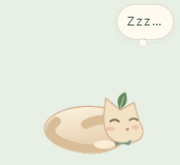
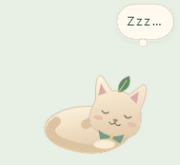
Correct paw contact direction and reuse Pofinyo face for sleep

Changed region(s): [[0.3611, 0.4545, 0.8333, 0.9091], [0.3333, 0.6667, 0.3611, 0.697]]

diff --git a/ui/desktop-cat.js b/ui/desktop-cat.js
@@ -1,7 +1,7 @@
 'use strict';
 const cat=document.getElementById('cat'),thought=document.getElementById('thought');
-const head=`<g class="cat-head"><path class="head-fur" d="M137 83Q125 34 140 39L162 61Q179 55 194 61L213 39Q228 35 219 84Q232 122 211 134Q178 151 144 133Q124 122 137 83Z" fill="url(#fur)" stroke="#d4c3ae" stroke-width="1.5"/><path d="M140 52l13 14-13 8m69-22-13 14 14 8" fill="#dbaaaa"/><g class="open-eye"><ellipse cx="158" cy="99" rx="5" ry="7" fill="#3c4544"/><ellipse cx="199" cy="99" rx="5" ry="7" fill="#3c4544"/><circle cx="160" cy="96" r="1.7" fill="white"/><circle cx="201" cy="96" r="1.7" fill="white"/></g><ellipse cx="148" cy="112" rx="8" ry="4" fill="#e8b2a5" opacity=".65"/><ellipse cx="209" cy="112" rx="8" ry="4" fill="#e8b2a5" opacity=".65"/><path d="M174 110q5-4 10 0l-5 5z" fill="#b1867b"/><path d="M179 115q-5 7-10 1m10-1q5 7 10 1" fill="none" stroke="#77675e" stroke-width="1.8" stroke-linecap="round"/><path d="M153 133q23 13 47-1l-4 17-17-6-20 6z" fill="#789b89"/><circle cx="178" cy="140" r="3.5" fill="#e8ca87"/><g class="leaf"><path d="M174 61q-8-21 13-33q10 23-13 33" fill="#648962"/><path d="M175 59l9-22" stroke="#b7cf93" stroke-width="2" stroke-linecap="round"/></g></g>`;
-cat.innerHTML=`<svg viewBox="0 0 250 190" xmlns="http://www.w3.org/2000/svg" aria-hidden="true"><defs><linearGradient id="fur" x2=".3" y2="1"><stop stop-color="#fff5df"/><stop offset="1" stop-color="#e5ceb0"/></linearGradient></defs><g class="standing"><path class="tail" d="M66 112C30 112 21 86 35 74C45 66 50 79 43 87" fill="none" stroke="#dcc3a1" stroke-width="14" stroke-linecap="round"/><g class="leg rear far"><path d="M75 116l-5 38q-8 9 9 9h8" fill="none" stroke="#d3b795" stroke-width="13" stroke-linecap="round"/></g><g class="leg front far"><path d="M145 117l7 37q-7 9 8 9h6" fill="none" stroke="#d3b795" stroke-width="12" stroke-linecap="round"/></g><ellipse class="torso" cx="110" cy="110" rx="55" ry="31" fill="url(#fur)" stroke="#d3b898" stroke-width="2"/><path d="M66 100q8-21 26-19m-17 37q7 12 22 14" fill="none" stroke="#d9bb95" stroke-width="5" stroke-linecap="round" opacity=".6"/><g class="leg rear near"><path d="M81 119q9 15 1 34q-5 11 14 10" fill="none" stroke="#efddbf" stroke-width="15" stroke-linecap="round"/></g><g class="leg front near"><path d="M143 118l-5 36q-5 10 14 9" fill="none" stroke="#f5e5cb" stroke-width="13" stroke-linecap="round"/></g>${head}</g><g class="sitting"><path d="M111 134q-40-23-52 0q-5 21 43 25" fill="none" stroke="#dbc29e" stroke-width="14" stroke-linecap="round"/><path d="M108 159q-25-23-12-51q18-41 51-15q22 38 6 66Z" fill="url(#fur)" stroke="#d3b898" stroke-width="2"/><ellipse cx="105" cy="145" rx="23" ry="17" fill="#ead4b3"/><path d="M138 115l-4 40q-8 11 9 10m10-49-1 40q-5 10 11 8" fill="none" stroke="#f3e3c8" stroke-width="12" stroke-linecap="round"/><g transform="translate(-12 -18)">${head}</g></g><g class="curled"><g class="breathing"><ellipse cx="123" cy="141" rx="61" ry="31" fill="url(#fur)" stroke="#d3b898" stroke-width="2"/><path d="M78 131q-18 15 5 28q51 22 85-3q11-13-4-22q-23-11-45 1" fill="none" stroke="#d9bd98" stroke-width="13" stroke-linecap="round"/><path d="M144 121l3-22 20 16 19-10 7 25q16 27-15 31q-36 3-34-40" fill="#f4e2c4" stroke="#d3b898" stroke-width="2"/><path d="M153 131q6-5 12 0m15-2q6-4 11 0" fill="none" stroke="#776857" stroke-width="2.5" stroke-linecap="round"/><path d="M174 141l6-1-3 5z" fill="#b78c7d"/><ellipse cx="153" cy="141" rx="6" ry="3" fill="#e8b2a5" opacity=".6"/><ellipse cx="188" cy="139" rx="5" ry="3" fill="#e8b2a5" opacity=".6"/><path d="M166 114q-8-17 8-24q7 17-8 24" fill="#648962"/><path d="M167 112l5-15" stroke="#b7cf93" stroke-width="1.5"/><path d="M159 158q12 6 24-2l-3 8-11-2-9 3z" fill="#789b89"/><ellipse cx="145" cy="163" rx="15" ry="6" fill="#f9edd5"/></g></g></svg>`;
+const head=`<g class="cat-head"><path class="head-fur" d="M137 83Q125 34 140 39L162 61Q179 55 194 61L213 39Q228 35 219 84Q232 122 211 134Q178 151 144 133Q124 122 137 83Z" fill="url(#fur)" stroke="#d4c3ae" stroke-width="1.5"/><path d="M140 52l13 14-13 8m69-22-13 14 14 8" fill="#dbaaaa"/><g class="open-eye"><ellipse cx="158" cy="99" rx="5" ry="7" fill="#3c4544"/><ellipse cx="199" cy="99" rx="5" ry="7" fill="#3c4544"/><circle cx="160" cy="96" r="1.7" fill="white"/><circle cx="201" cy="96" r="1.7" fill="white"/></g><g class="closed-eye" fill="none" stroke="#77675e" stroke-width="2" stroke-linecap="round"><path d="M152 99q6 6 12 0m29 0q6 6 12 0"/></g><ellipse cx="148" cy="112" rx="8" ry="4" fill="#e8b2a5" opacity=".65"/><ellipse cx="209" cy="112" rx="8" ry="4" fill="#e8b2a5" opacity=".65"/><path d="M174 110q5-4 10 0l-5 5z" fill="#b1867b"/><path d="M179 115q-5 7-10 1m10-1q5 7 10 1" fill="none" stroke="#77675e" stroke-width="1.8" stroke-linecap="round"/><path d="M153 133q23 13 47-1l-4 17-17-6-20 6z" fill="#789b89"/><circle cx="178" cy="140" r="3.5" fill="#e8ca87"/><g class="leaf"><path d="M174 61q-8-21 13-33q10 23-13 33" fill="#648962"/><path d="M175 59l9-22" stroke="#b7cf93" stroke-width="2" stroke-linecap="round"/></g></g>`;
+cat.innerHTML=`<svg viewBox="0 0 250 190" xmlns="http://www.w3.org/2000/svg" aria-hidden="true"><defs><linearGradient id="fur" x2=".3" y2="1"><stop stop-color="#fff5df"/><stop offset="1" stop-color="#e5ceb0"/></linearGradient></defs><g class="standing"><path class="tail" d="M66 112C30 112 21 86 35 74C45 66 50 79 43 87" fill="none" stroke="#dcc3a1" stroke-width="14" stroke-linecap="round"/><g class="leg rear far"><path d="M75 116l-5 38q-8 9 9 9h8" fill="none" stroke="#d3b795" stroke-width="13" stroke-linecap="round"/></g><g class="leg front far"><path d="M145 117l7 37q-7 9 8 9h6" fill="none" stroke="#d3b795" stroke-width="12" stroke-linecap="round"/></g><ellipse class="torso" cx="110" cy="110" rx="55" ry="31" fill="url(#fur)" stroke="#d3b898" stroke-width="2"/><path d="M66 100q8-21 26-19m-17 37q7 12 22 14" fill="none" stroke="#d9bb95" stroke-width="5" stroke-linecap="round" opacity=".6"/><g class="leg rear near"><path d="M81 119q9 15 1 34q-5 11 14 10" fill="none" stroke="#efddbf" stroke-width="15" stroke-linecap="round"/></g><g class="leg front near"><path d="M143 118l-5 36q-5 10 14 9" fill="none" stroke="#f5e5cb" stroke-width="13" stroke-linecap="round"/></g>${head}</g><g class="sitting"><path d="M111 134q-40-23-52 0q-5 21 43 25" fill="none" stroke="#dbc29e" stroke-width="14" stroke-linecap="round"/><path d="M108 159q-25-23-12-51q18-41 51-15q22 38 6 66Z" fill="url(#fur)" stroke="#d3b898" stroke-width="2"/><ellipse cx="105" cy="145" rx="23" ry="17" fill="#ead4b3"/><path d="M138 115l-4 40q-8 11 9 10m10-49-1 40q-5 10 11 8" fill="none" stroke="#f3e3c8" stroke-width="12" stroke-linecap="round"/><g transform="translate(-12 -18)">${head}</g></g><g class="curled"><g class="breathing"><ellipse cx="123" cy="141" rx="61" ry="31" fill="url(#fur)" stroke="#d4c3ae" stroke-width="1.5"/><path d="M78 131q-18 15 5 28q51 22 85-3q11-13-4-22q-23-11-45 1" fill="none" stroke="#dcc3a1" stroke-width="13" stroke-linecap="round"/><g class="sleep-head" transform="translate(20 43) scale(.78) rotate(12 178 115)">${head}</g><ellipse cx="145" cy="163" rx="15" ry="6" fill="#f9edd5"/></g></g></svg>`;
 const standing=cat.querySelector('.standing'),side=document.createElementNS('http://www.w3.org/2000/svg','g');side.classList.add('side-facing');while(standing.firstChild)side.append(standing.firstChild);standing.append(side);
 const paws=`<g class="leg front far"><path d="M108 115v28q-6 7 8 7"/></g><g class="leg rear far"><path d="M142 137v23q-5 7 8 7"/></g><g class="leg front near"><path d="M141 114v29q-5 8 8 7"/></g><g class="leg rear near"><path d="M108 137v24q-5 7 9 7"/></g>`;
 standing.insertAdjacentHTML('beforeend',`<g class="back-facing"><g class="depth-paws" fill="none" stroke="#e5ceb0" stroke-width="12" stroke-linecap="round">${paws}</g><ellipse cx="125" cy="128" rx="34" ry="34" fill="url(#fur)" stroke="#d4c3ae" stroke-width="1.5"/><path d="M110 125q15 9 30 0" stroke="#789b89" stroke-width="6" fill="none"/><g class="head-back" transform="translate(-53 -18)"><path d="M137 83Q125 34 140 39L162 61Q179 55 194 61L213 39Q228 35 219 84Q232 122 211 134Q178 151 144 133Q124 122 137 83Z" fill="url(#fur)" stroke="#d4c3ae" stroke-width="1.5"/><path d="M141 54l5 22m64-22-4 23M174 119q5 5 10 0" fill="none" stroke="#ddc8ac" stroke-width="2" stroke-linecap="round"/><path d="M174 61q-8-21 13-33q10 23-13 33" fill="#648962"/><path d="M175 59l9-22" stroke="#b7cf93" stroke-width="2"/></g><path class="tail" d="M126 149C169 165 181 129 159 124" fill="none" stroke="#dcc3a1" stroke-width="12" stroke-linecap="round"/></g><g class="front-facing"><g class="depth-paws" fill="none" stroke="#e5ceb0" stroke-width="12" stroke-linecap="round">${paws}</g><ellipse cx="125" cy="128" rx="35" ry="31" fill="url(#fur)"/><path class="tail" d="M148 137q45-8 27-37" fill="none" stroke="#dcc3a1" stroke-width="12" stroke-linecap="round"/><g transform="translate(-53 -18)">${head}</g></g>`);

diff --git a/ui/desktop-cat.css b/ui/desktop-cat.css
@@ -19,10 +19,16 @@
 [data-pose=walk] .depth-paws .leg{animation-name:depth-step}
 [data-pose=run] .depth-paws .leg{animation-name:depth-run}
 #cat.turning svg{animation:turn-body .24s ease-in-out}
-@keyframes step{0%,100%{transform:rotate(18deg)}55%{transform:rotate(-20deg)}77%{transform:rotate(-3deg) translateY(-4px)}}
+@keyframes step{0%,100%{transform:rotate(-18deg)}55%{transform:rotate(20deg)}77%{transform:rotate(3deg) translateY(-4px)}}
 @keyframes depth-step{0%,100%{transform:translateY(0)}55%{transform:translateY(3px)}77%{transform:translateY(-5px)}}
 @keyframes depth-run{0%,100%{transform:translateY(3px)}50%{transform:translateY(-7px)}}
 @keyframes head-attend{0%,100%{transform:rotate(0)}23%{transform:rotate(-5deg)}63%{transform:rotate(5deg)}83%{transform:rotate(-2deg)}}
 @keyframes rear-attend{0%,100%{rotate:0deg}24%{rotate:-4deg}68%{rotate:4deg}}
 @keyframes look{0%,100%{transform:rotate(0)}25%{transform:rotate(-8deg)}65%{transform:rotate(7deg)}}
 @keyframes turn-body{50%{opacity:.9;scale:.88 1}}
+
+/* During contact the foot travels backwards relative to the advancing body. */
+[data-heading=toward][data-pose=walk] .depth-paws .leg{animation-name:toward-step}
+[data-heading=toward][data-pose=run] .depth-paws .leg{animation-name:toward-step}
+@keyframes toward-step{0%,100%{transform:translateY(0)}55%{transform:translateY(-3px)}77%{transform:translateY(-7px)}}
+.curled .open-eye{display:none}.curled .closed-eye{display:block}.curled .leaf{animation:none}

diff --git a/README.md b/README.md
@@ -20,7 +20,7 @@ Pofinyo **dört ayağıyla yürür**, kısa koşular yapar, oturup etrafa bakar 
 
 ## Kullanım ve kurulum
 
-Windows x64 için **Pofinyo-Setup-2.2.0.exe** veya **Pofinyo-Portable-2.2.0.exe**. Paketler [Pofinyo geliştirme dalının GitHub Actions çalışması tamamlandıktan sonra](https://github.com/snansrin/Pofinyo/actions/workflows/ci.yml?query=branch%3Afeat%2Fmochi-living-language) **Pofinyo-Windows** çıktısından indirilebilir.
+Windows x64 için **Pofinyo-Setup-2.2.1.exe** veya **Pofinyo-Portable-2.2.1.exe**. Paketler [Pofinyo geliştirme dalının GitHub Actions çalışması tamamlandıktan sonra](https://github.com/snansrin/Pofinyo/actions/workflows/ci.yml?query=branch%3Afeat%2Fmochi-living-language) **Pofinyo-Windows** çıktısından indirilebilir.
 
 1. Uygulamayı aç. Kedi masaüstünde yaşamaya başlar.
 2. **Win + D** ile masaüstüne geçebilirsin. Başka uygulama açtığında kedi onun arkasında kalır.
